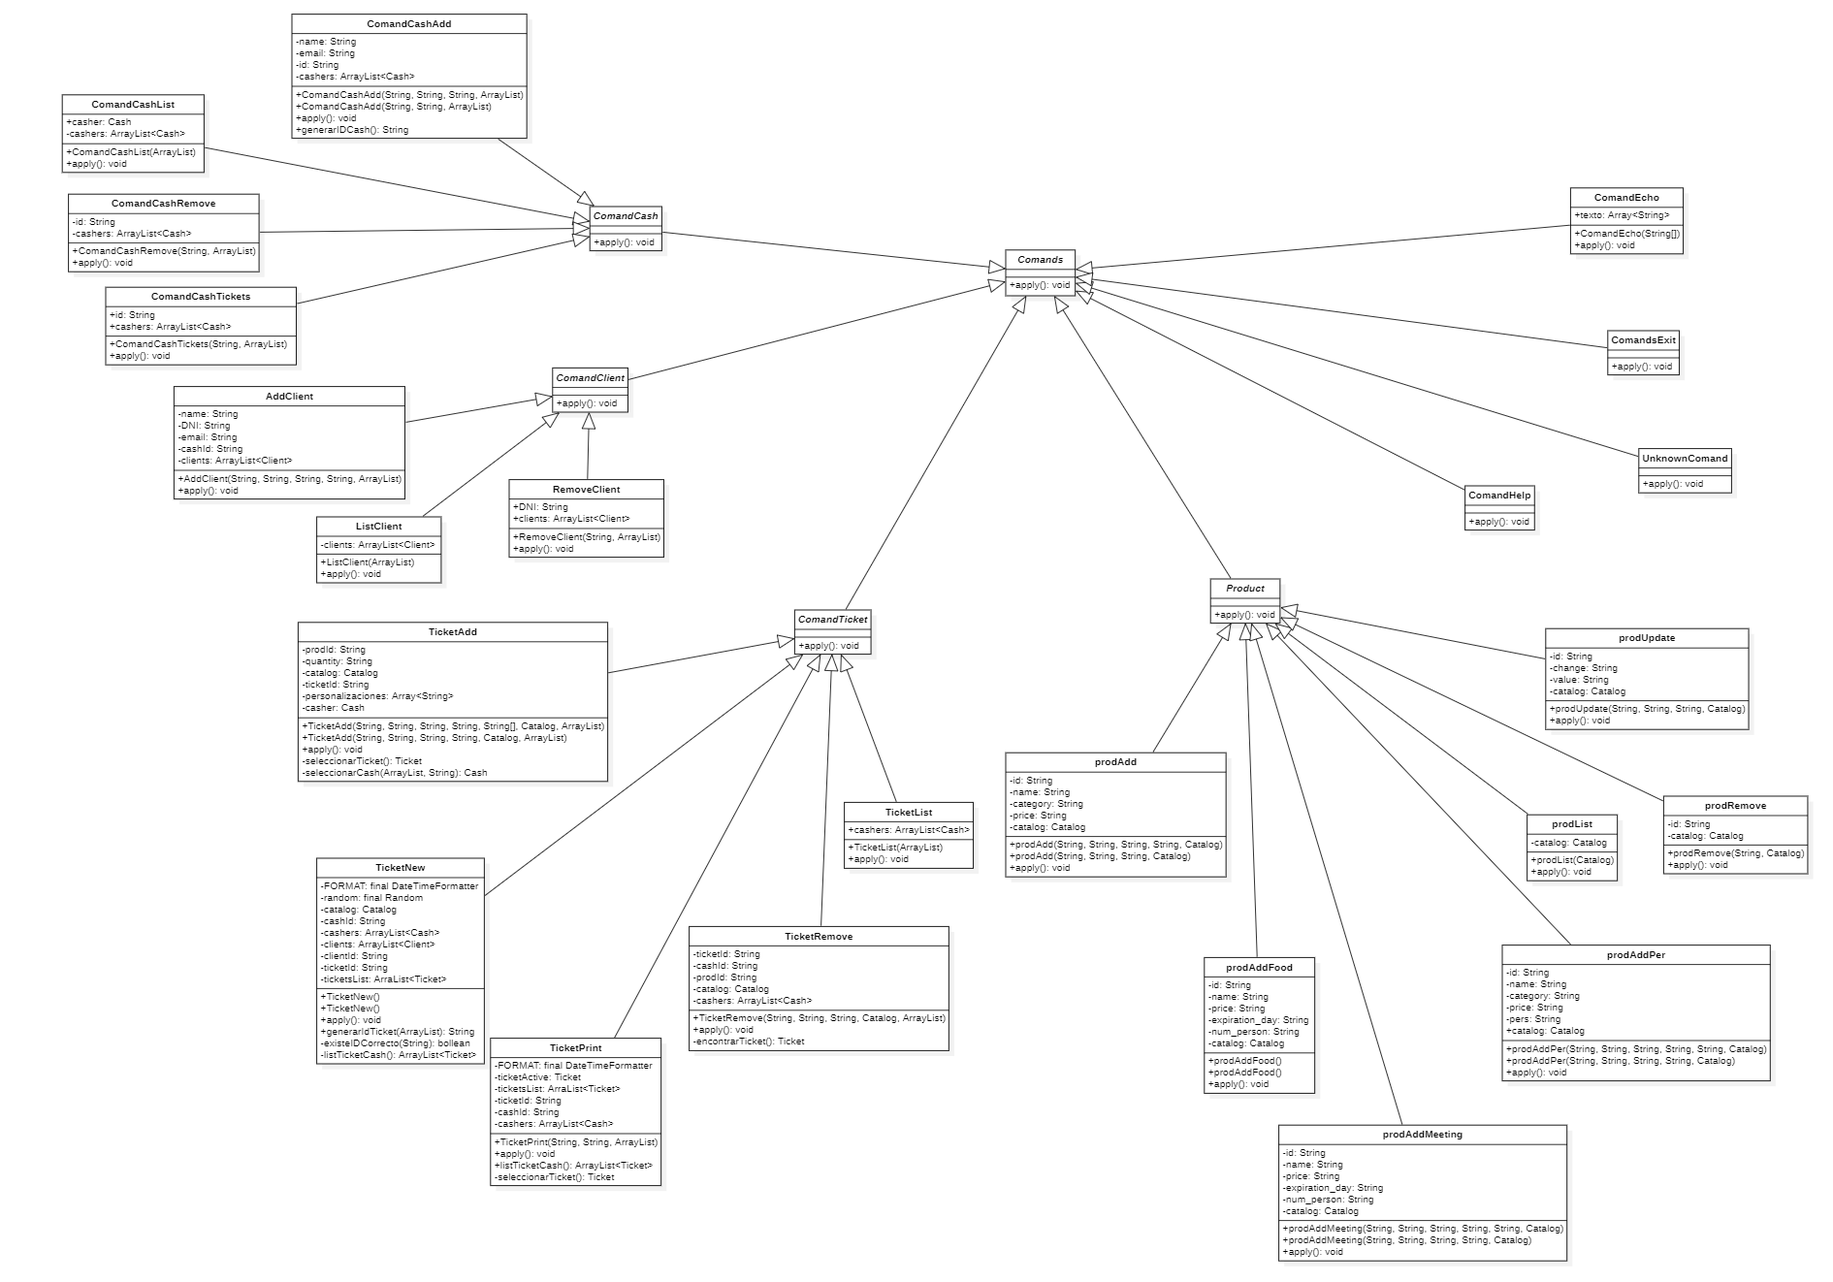
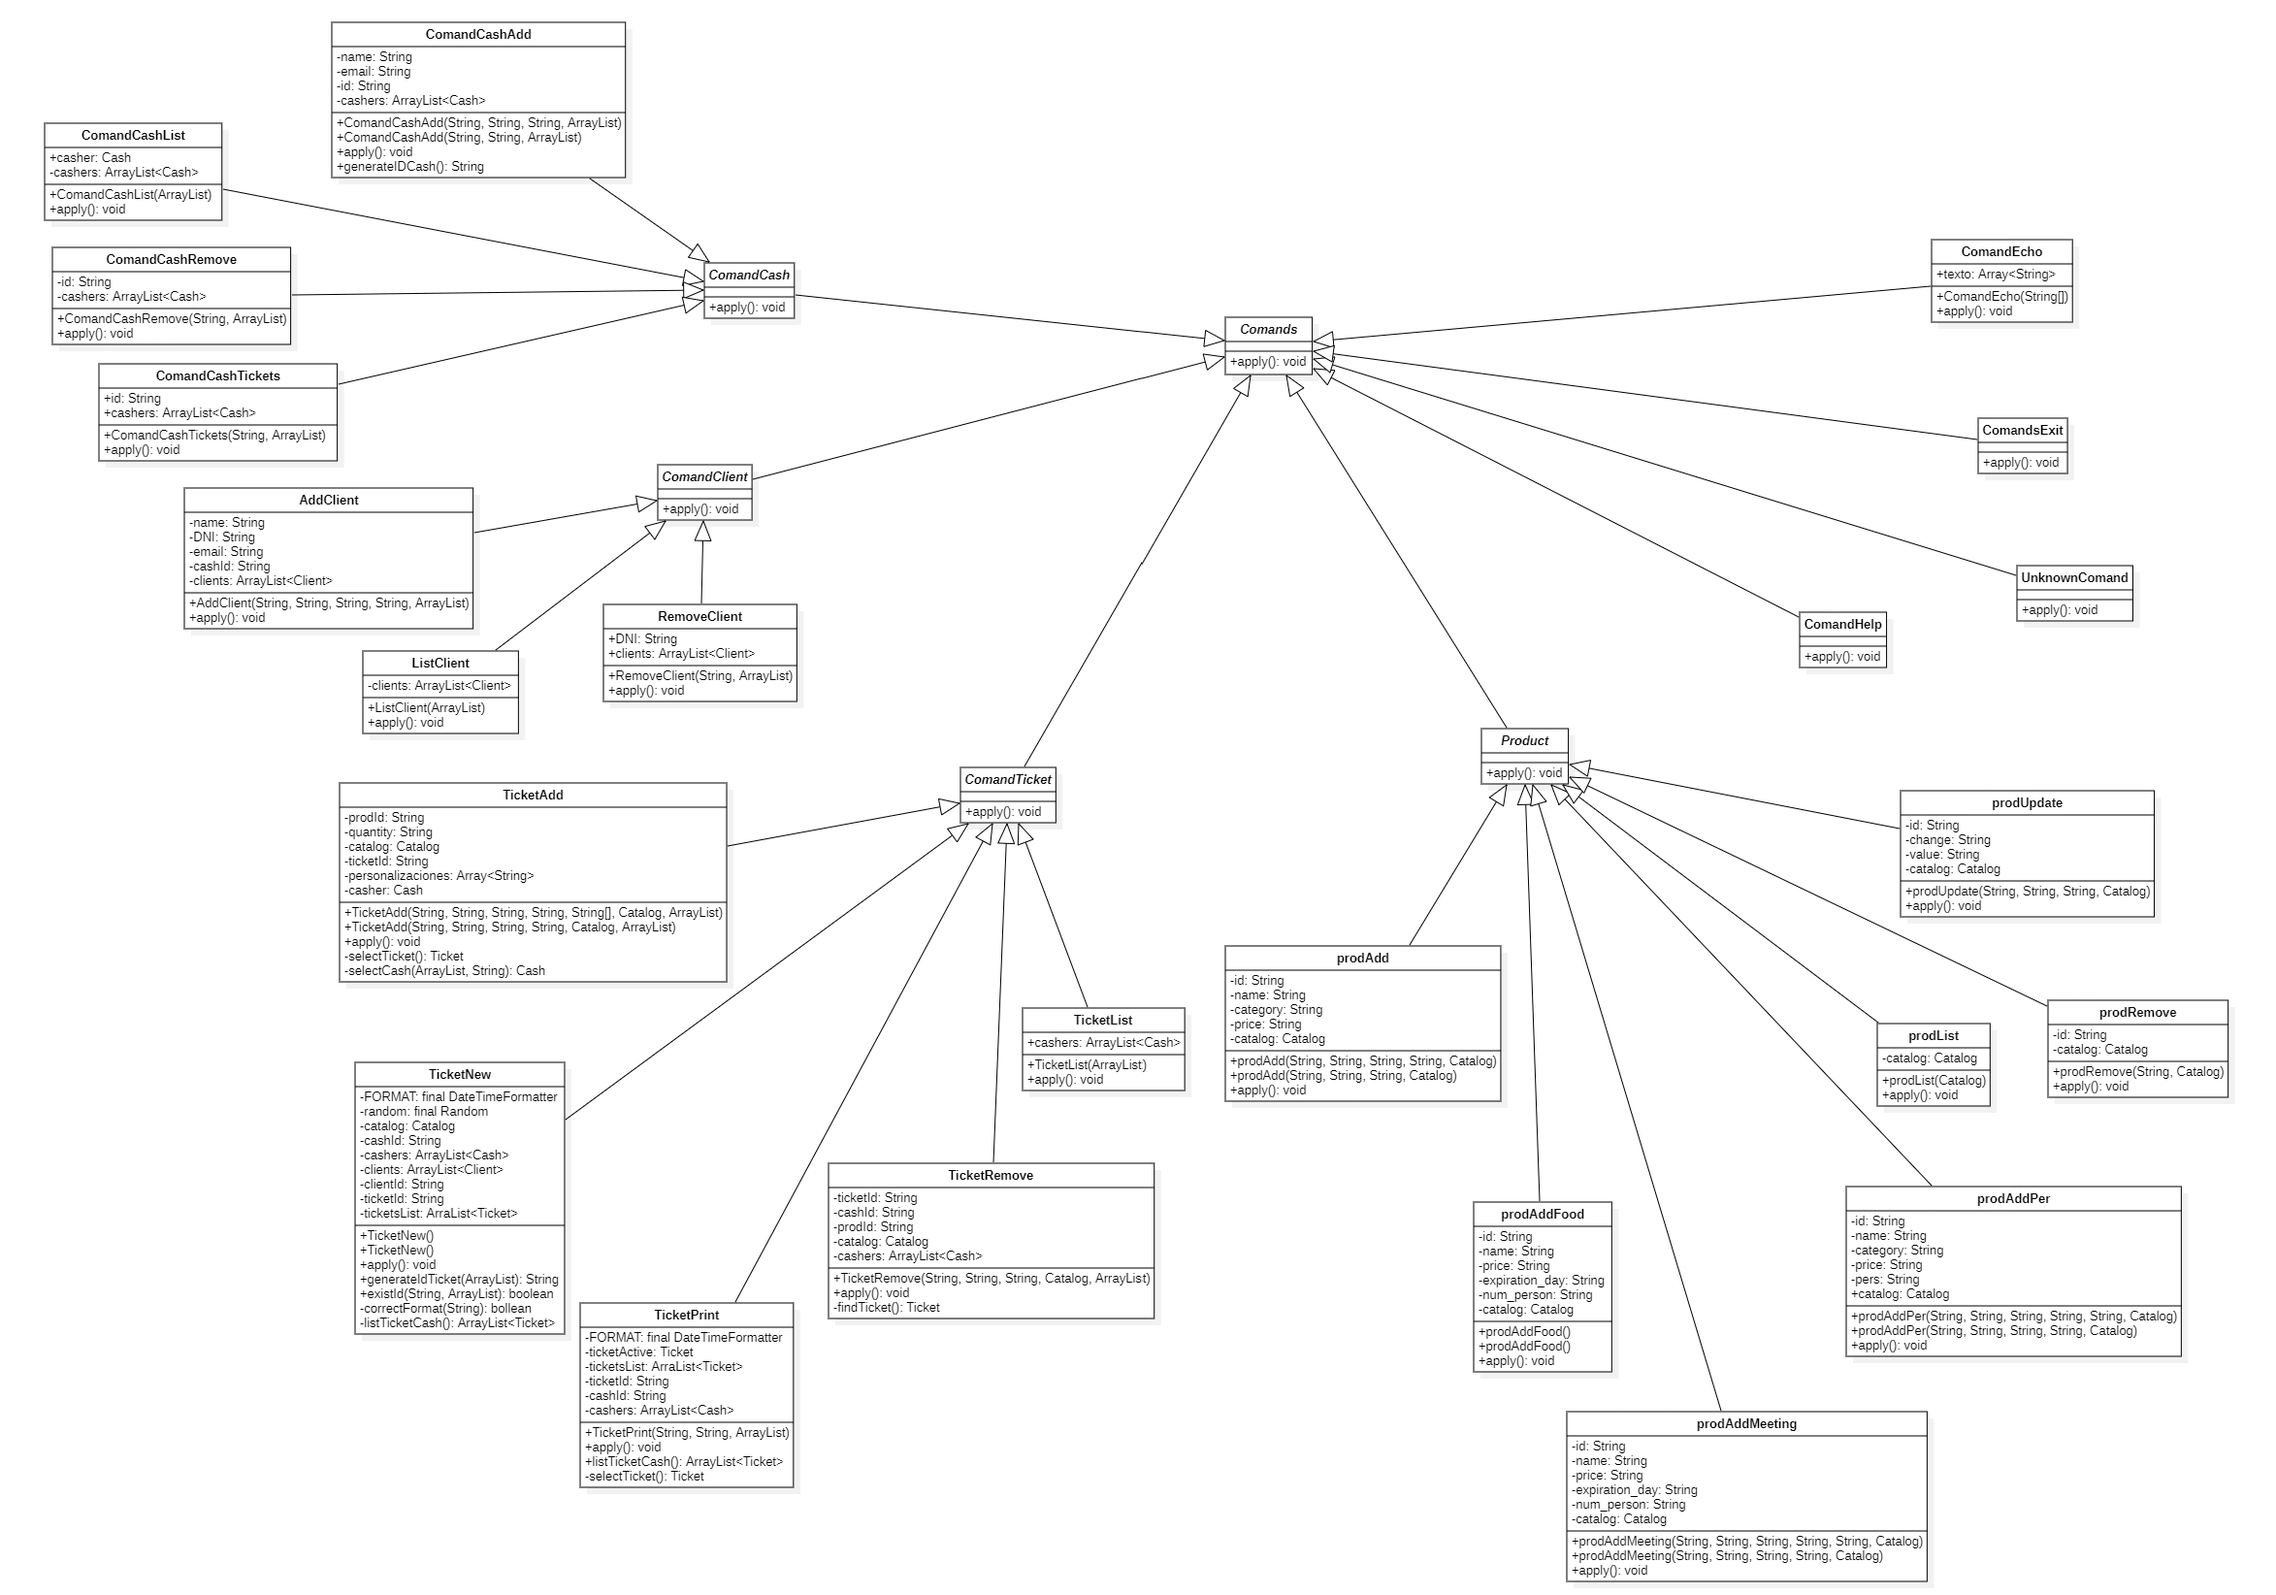
Modificando el UML

diff --git a/src/main/java/es/upm/etsisi/poo/Comands/TicketAdd.java b/src/main/java/es/upm/etsisi/poo/Comands/TicketAdd.java
@@ -39,7 +39,7 @@ public class TicketAdd extends ComandTicket{
      *  Añade una cantidad específica de un producto al ticket.
      */
     public void apply() {
-        Ticket ticketActual = seleccinarTicket();
+        Ticket ticketActual = selectTicket();
         if(ticketActual !=null) {
             if (ticketActual.getStatus() != TicketStatus.CLOSE) {
                 int cont = 0;
@@ -89,7 +89,7 @@ public class TicketAdd extends ComandTicket{
         }
     }
 
-    private Ticket seleccinarTicket(){
+    private Ticket selectTicket(){
         ArrayList<Ticket> ticketsList = casher.getCashTickets();
         Ticket ticketActual = null;
         for (int i = 0; i < ticketsList.size(); i++) {

diff --git a/src/main/java/es/upm/etsisi/poo/Comands/TicketRemove.java b/src/main/java/es/upm/etsisi/poo/Comands/TicketRemove.java
@@ -24,7 +24,7 @@ public class TicketRemove extends ComandTicket{
      * Elimina un producto del ticket.
      */
     public void apply() {
-        Ticket ticketActive = encontrarTicket();
+        Ticket ticketActive = findTicket();
         if(ticketActive!= null && ticketActive.getStatus()!= TicketStatus.CLOSE) {
             int i = 0;
             boolean encontrado = false;
@@ -47,7 +47,7 @@ public class TicketRemove extends ComandTicket{
         }
 
     }
-    private Ticket encontrarTicket() {
+    private Ticket findTicket() {
         Cash casher = null;
         for (int i = 0; i < cashers.size(); i++) {
             if ( cashers.get(i).getId().equals(cashId)) {

diff --git a/src/main/java/es/upm/etsisi/poo/Comands/ProdAddPer.java b/src/main/java/es/upm/etsisi/poo/Comands/ProdAddPer.java
@@ -2,8 +2,6 @@ package es.upm.etsisi.poo.Comands;
 
 import es.upm.etsisi.poo.Catalog;
 
-import es.upm.etsisi.poo.Catalog;
-
 public class ProdAddPer extends Product {
     private String id;
     private String name;
@@ -22,7 +20,7 @@ public class ProdAddPer extends Product {
         this.catalog=catalog;
     }
     public ProdAddPer(String name, String category, String price, String pers , Catalog catalog) {
-        this.id = catalog.crearId();
+        this.id = catalog.createId();
         this.name = name;
         this.category = category;
         this.price = price;

diff --git a/src/main/java/es/upm/etsisi/poo/Comands/ProdAddFood.java b/src/main/java/es/upm/etsisi/poo/Comands/ProdAddFood.java
@@ -21,7 +21,7 @@ public class ProdAddFood extends Product{
         this.catalog = catalog;
     }
     public ProdAddFood(String name, String price, String expiration_day, String num_person, Catalog catalog) {
-        this.id = catalog.crearId();
+        this.id = catalog.createId();
         this.name = name;
         this.price = price;
         this.expiration_day = expiration_day;

diff --git a/src/main/java/es/upm/etsisi/poo/Comands/ProdAddMeeting.java b/src/main/java/es/upm/etsisi/poo/Comands/ProdAddMeeting.java
@@ -23,7 +23,7 @@ public class ProdAddMeeting extends Product {
 
     // CONSTRUCTOR sin ID
     public ProdAddMeeting(String name, String price, String expiration_day, String num_person, Catalog catalog) {
-        this.id = catalog.crearId();
+        this.id = catalog.createId();
         this.name = name;
         this.price = price;
         this.expiration_day = expiration_day;

diff --git a/src/main/java/es/upm/etsisi/poo/Comands/ProdAdd.java b/src/main/java/es/upm/etsisi/poo/Comands/ProdAdd.java
@@ -18,7 +18,7 @@ public class ProdAdd extends Product {
         this.catalog = catalog;
     }
     public ProdAdd(String name, String category, String price, Catalog catalog) {
-        this.id = catalog.crearId();
+        this.id = catalog.createId();
         this.name = name;
         this.category = category;
         this.price = price;

diff --git a/src/main/java/es/upm/etsisi/poo/Catalog.java b/src/main/java/es/upm/etsisi/poo/Catalog.java
@@ -1,7 +1,5 @@
 package es.upm.etsisi.poo;
 
-import java.util.Arrays;
-
 public class
 Catalog {
 
@@ -220,7 +218,7 @@ Catalog {
         }
     }
 
-    public String crearId(){
+    public String createId(){
         int antId=0;
         if(products[0]!=null) {
             antId = Integer.parseInt(products[0].getID());
